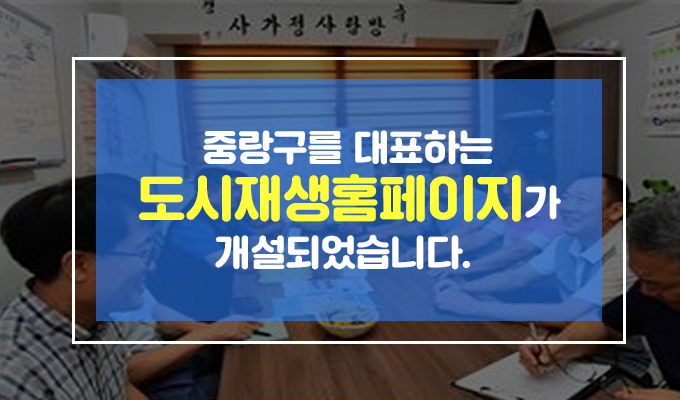
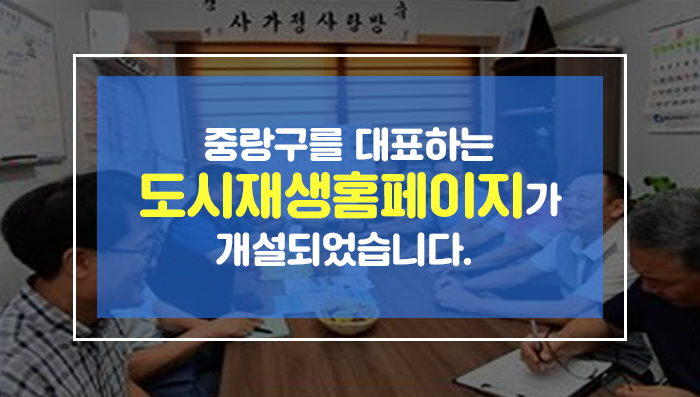
main screen commit

diff --git a/patis/src/main/webapp/assets/css/main.css b/patis/src/main/webapp/assets/css/main.css
@@ -12,8 +12,9 @@
 }
 .slideimg-01 {
   display: block;
-  width: 680px;
+  width: 700px;
   height: 400px;
+  background-size: cover;
   background-image: url("/assets/images/image/main_slideimg.png");
 }
 .btn_box {
@@ -29,6 +30,7 @@
   height: 15px;
   border-radius: 20px;
   background-color: #f18d00;
+  cursor: pointer;
 }
 .btn {
   border: none;
@@ -38,12 +40,31 @@
   border-radius: 20px;
   margin: 10px;
   background-color: #707070;
+  cursor: pointer;
 }
-.btn.play {
-  width: 15px;
-  height: 15px;
+.pause {
+  width: 20px;
+  height: 20px;
+  border: none;
+  outline: none;
+  margin: 8px;
+  background-size: cover;
+  background-color: transparent;
   background-image: url("/assets/images/icons/ico_pause.png");
+  cursor: pointer;
 }
+.play {
+  width: 20px;
+  height: 20px;
+  border: none;
+  outline: none;
+  margin: 8px;
+  background-size: cover;
+  background-color: transparent;
+  background-image: url("/assets/images/icons/ico_play.png");
+  cursor: pointer;
+}
+
 .banner {
   clear: both;
   flex-direction: column;
@@ -107,7 +128,158 @@
   transition: 0.5s;
   background-image: url("/assets/images/icons/ico_main_banner6(black).png");
 }
+.main-container-content {
+  width: 100%;
+  margin: 20px auto;
+  display: flex;
+  flex-direction: row;
+  justify-content: center;
+}
 .main-container-image {
-  width: 411px;
+  margin-right: 6px;
+  display: block;
+  width: 405px;
+  height: 269px;
   background-image: url("/assets/images/image/main_bannerimg.png");
+}
+.main-news,
+.main-urbannews {
+  padding: 20px;
+  box-sizing: border-box;
+  margin-right: 6px;
+  width: 405px;
+  height: 269px;
+  border: 1px solid #dedede;
+}
+.main-news li,
+.main-urbannews li {
+  line-height: 2;
+  overflow: hidden;
+  white-space: nowrap;
+  text-overflow: ellipsis;
+}
+.main-news li.main-urbannews__content a,
+.main-urbannews li.main-urbannews__content a {
+  font-size: 14.5px;
+  color: #5f5f5f;
+}
+.main-news li.main-urbannews__content a:hover,
+.main-urbannews li.main-urbannews__content a:hover{
+	color:black;
+}
+.main-news__title,
+.main-urbannews__title {
+  border-bottom: 2px solid #474747;
+}
+.main-news__title a,
+.main-urbannews__title a {
+  font-size: 22px;
+}
+a.main-plus {
+  display: block;
+  position: absolute;
+  margin-top: -196px;
+  margin-left: 338px;
+  width: 25px;
+  height: 25px;
+  background-size: cover;
+  background-image: url("/assets/images/icons/ico_plus.png");
+}
+
+.mainBotton{
+	width:85%;
+	margin: 35px auto;
+	display: flex;
+	flex-direction: row;
+	justify-content: cneter;
+	align-items: center;
+}
+
+.main-cooper {
+  width: 100%;
+  margin: 0 auto;
+  overflow: hidden;
+}
+.main-cooper ul {
+  width: 140%;
+  box-sizing: border-box;
+  display: flex;
+  flex-direction: row;
+  justify-content: center;
+}
+.main-cooper ul li {
+  width: 16%;
+}
+.main-cooper li a.main-cooper-01 {
+  display: block;
+  width: 170px;
+  height: 50px;
+  background-size: cover;
+  background-image: url("/assets/images/image/main_cooper_01.png");
+}
+.main-cooper li a.main-cooper-02 {
+  display: block;
+  width: 170px;
+  height: 50px;
+  background-size: cover;
+  background-image: url("/assets/images/image/main_cooper_02.png");
+}
+.main-cooper li a.main-cooper-03 {
+  display: block;
+  width: 170px;
+  height: 50px;
+  background-size: cover;
+  background-image: url("/assets/images/image/main_cooper_03.png");
+}
+.main-cooper li a.main-cooper-04 {
+  display: block;
+  width: 170px;
+  height: 50px;
+  background-size: cover;
+  background-image: url("/assets/images/image/main_cooper_04.png");
+}
+.main-cooper li a.main-cooper-05 {
+  display: block;
+  width: 170px;
+  height: 50px;
+  background-size: cover;
+  background-image: url("/assets/images/image/main_cooper_05.png");
+}
+.main-cooper li a.main-cooper-06 {
+  display: block;
+  width: 170px;
+  height: 50px;
+  background-size: cover;
+  background-image: url("/assets/images/image/main_cooper_06.png");
+}
+.main-cooper li a.main-cooper-07 {
+  display: block;
+  width: 170px;
+  height: 50px;
+  background-size: cover;
+  background-image: url("/assets/images/image/main_cooper_07.png");
+}
+.main-cooper li a.main-cooper-08 {
+  display: block;
+  width: 170px;
+  height: 50px;
+  background-size: cover;
+  background-image: url("/assets/images/image/main_cooper_08.png");
+}
+.main-cooper-btn {
+  width: 20%;
+  margin:0 auto;
+  display: flex;
+  flex-direction: row;
+  justify-content: center;
+}
+.main-cooper-btn .prev,
+.main-cooper-btn .next {
+  outline: none;
+  width: 30px;
+  height: 30px;
+  background-color: transparent;
+  border: 1px solid #707070;
+  border-radius: 100%;
+  text-align: center;
 }

diff --git a/patis/src/main/webapp/assets/css/mainRes.css b/patis/src/main/webapp/assets/css/mainRes.css
@@ -1,0 +1,59 @@
+@charset "utf-8";
+
+@media screen and (max-width: 767px) {
+  .main-container {
+    width: 100%;
+    margin: 12px auto;
+    display: flex;
+    flex-direction: column;
+    justify-content: center;
+  }
+  .slideimg-01 {
+    display: block;
+    width: 400px;
+    height: 240px;
+    margin: 0 auto;
+    background-position: center center;
+    background-size: cover;
+    background-image: url("/assets/images/image/main_slideimg.png");
+  }
+  .btn_box {
+    width: 450px;
+    display: flex;
+    flex-direction: row;
+    justify-content: center;
+  }
+  .banner a {
+    display: block;
+    width: 140px;
+    height: 168px;
+    background-size: contain;
+  }
+  .main-container-content {
+    width: 80%;
+    margin: 20px auto;
+    display: flex;
+    flex-direction: column;
+    justify-content: center;
+  }
+  .main-news,
+.main-urbannews {
+  padding: 20px;
+  box-sizing: border-box;
+  margin-top: 20px;
+  width: 405px;
+  height: 269px;
+  border: 1px solid #dedede;
+}
+.main-cooper ul {
+  width: 600%;
+  box-sizing: border-box;
+  display: flex;
+  flex-direction: row;
+  justify-content: center;
+}
+}
+@media screen and (min-width: 768px) and (max-width: 959px) {
+}
+@media screen and (min-width: 960px) {
+}

diff --git a/patis/src/main/webapp/assets/css/header.css b/patis/src/main/webapp/assets/css/header.css
@@ -129,7 +129,7 @@
   margin-left: 0;
 }
 .sub li.sub1 {
-  margin-left: 10%;
+  margin-left: 15%;
 }
 .sub li {
   margin-right: 15px;

diff --git a/patis/src/main/webapp/assets/css/styles.css b/patis/src/main/webapp/assets/css/styles.css
@@ -4,3 +4,4 @@
 @import "./footer.css";
 @import "./headerRes.css";
 @import "./footerRes.css";
+@import "./mainRes.css";

diff --git a/patis/src/main/webapp/assets/js/init.js b/patis/src/main/webapp/assets/js/init.js
@@ -1,0 +1,5 @@
+function init() {
+  console.log("start js");
+}
+
+init();
